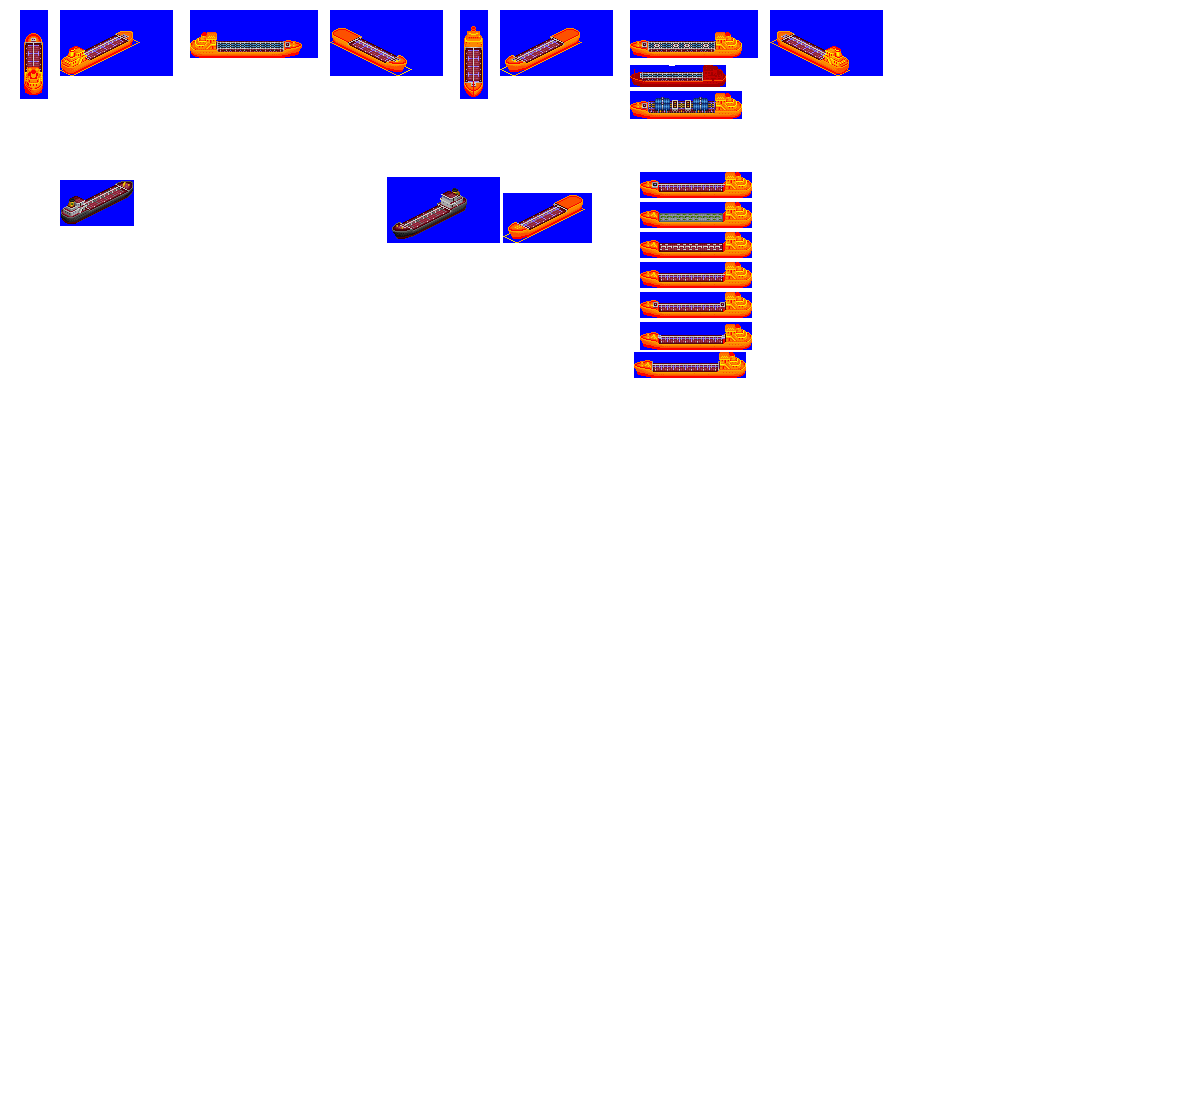
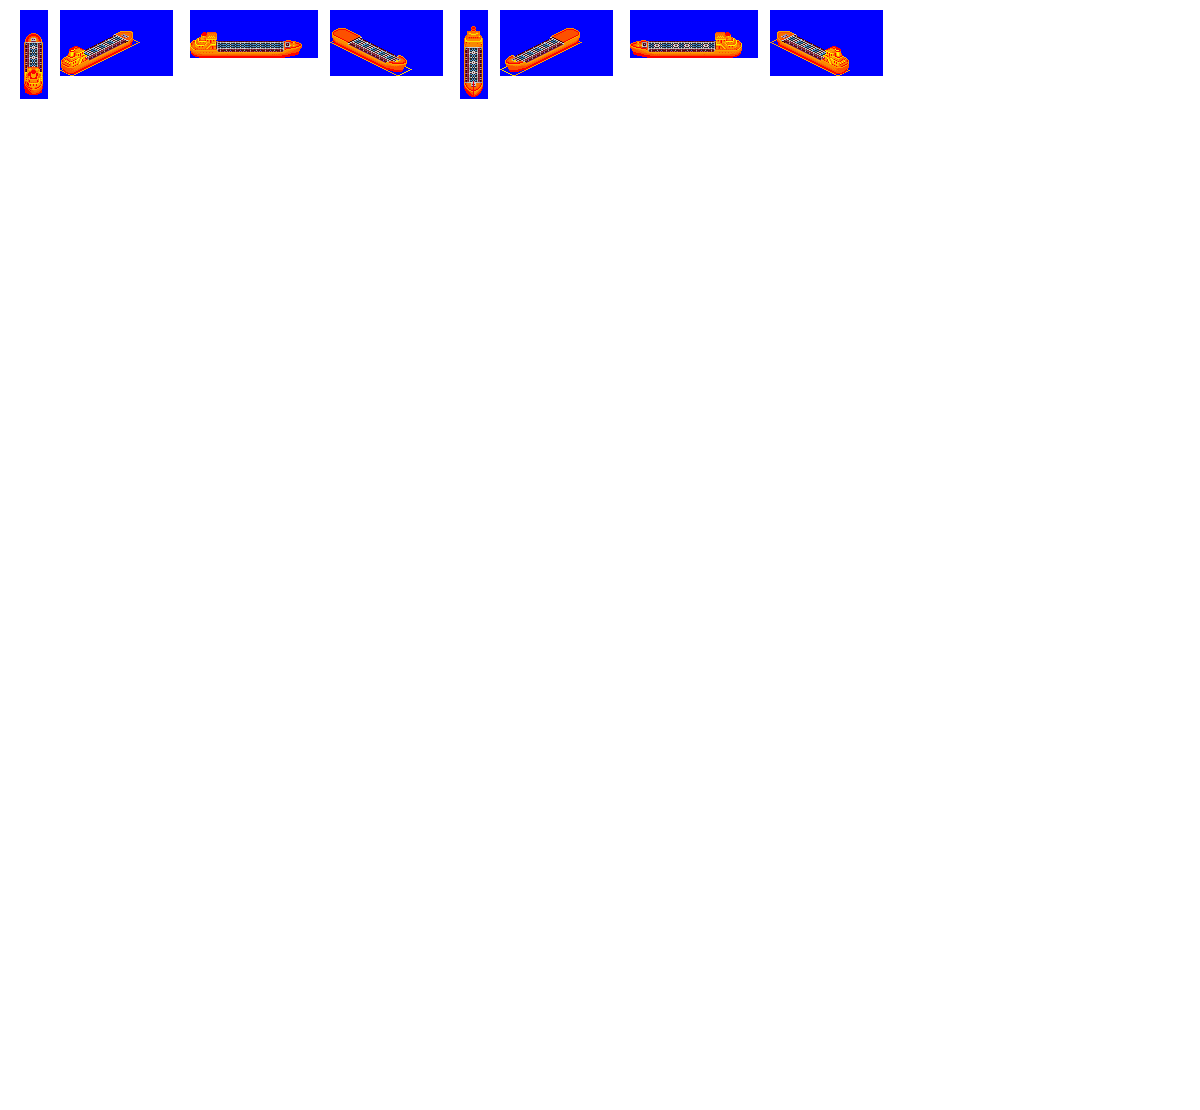
Change: sprites complete for gen 3E and 3F product tankers

diff --git a/src/vehicles/product_tanker_ships.py b/src/vehicles/product_tanker_ships.py
@@ -54,7 +54,7 @@ def main():
         hull="ShipHouseRear",
         str_type_info="SMALL_TANKER_COASTAL_INLAND",
         effect_type="EFFECT_SPRITE_DIESEL",
-        sprites_complete=False,
+        sprites_complete=True,
     )
 
     ship = ProductTankerShip(
@@ -65,5 +65,5 @@ def main():
         hull="ShipHouseRear",
         str_type_info="COASTAL_TANKER",
         effect_type="EFFECT_SPRITE_AIRCRAFT_BREAKDOWN_SMOKE",
-        sprites_complete=False,
+        sprites_complete=True,
     )
